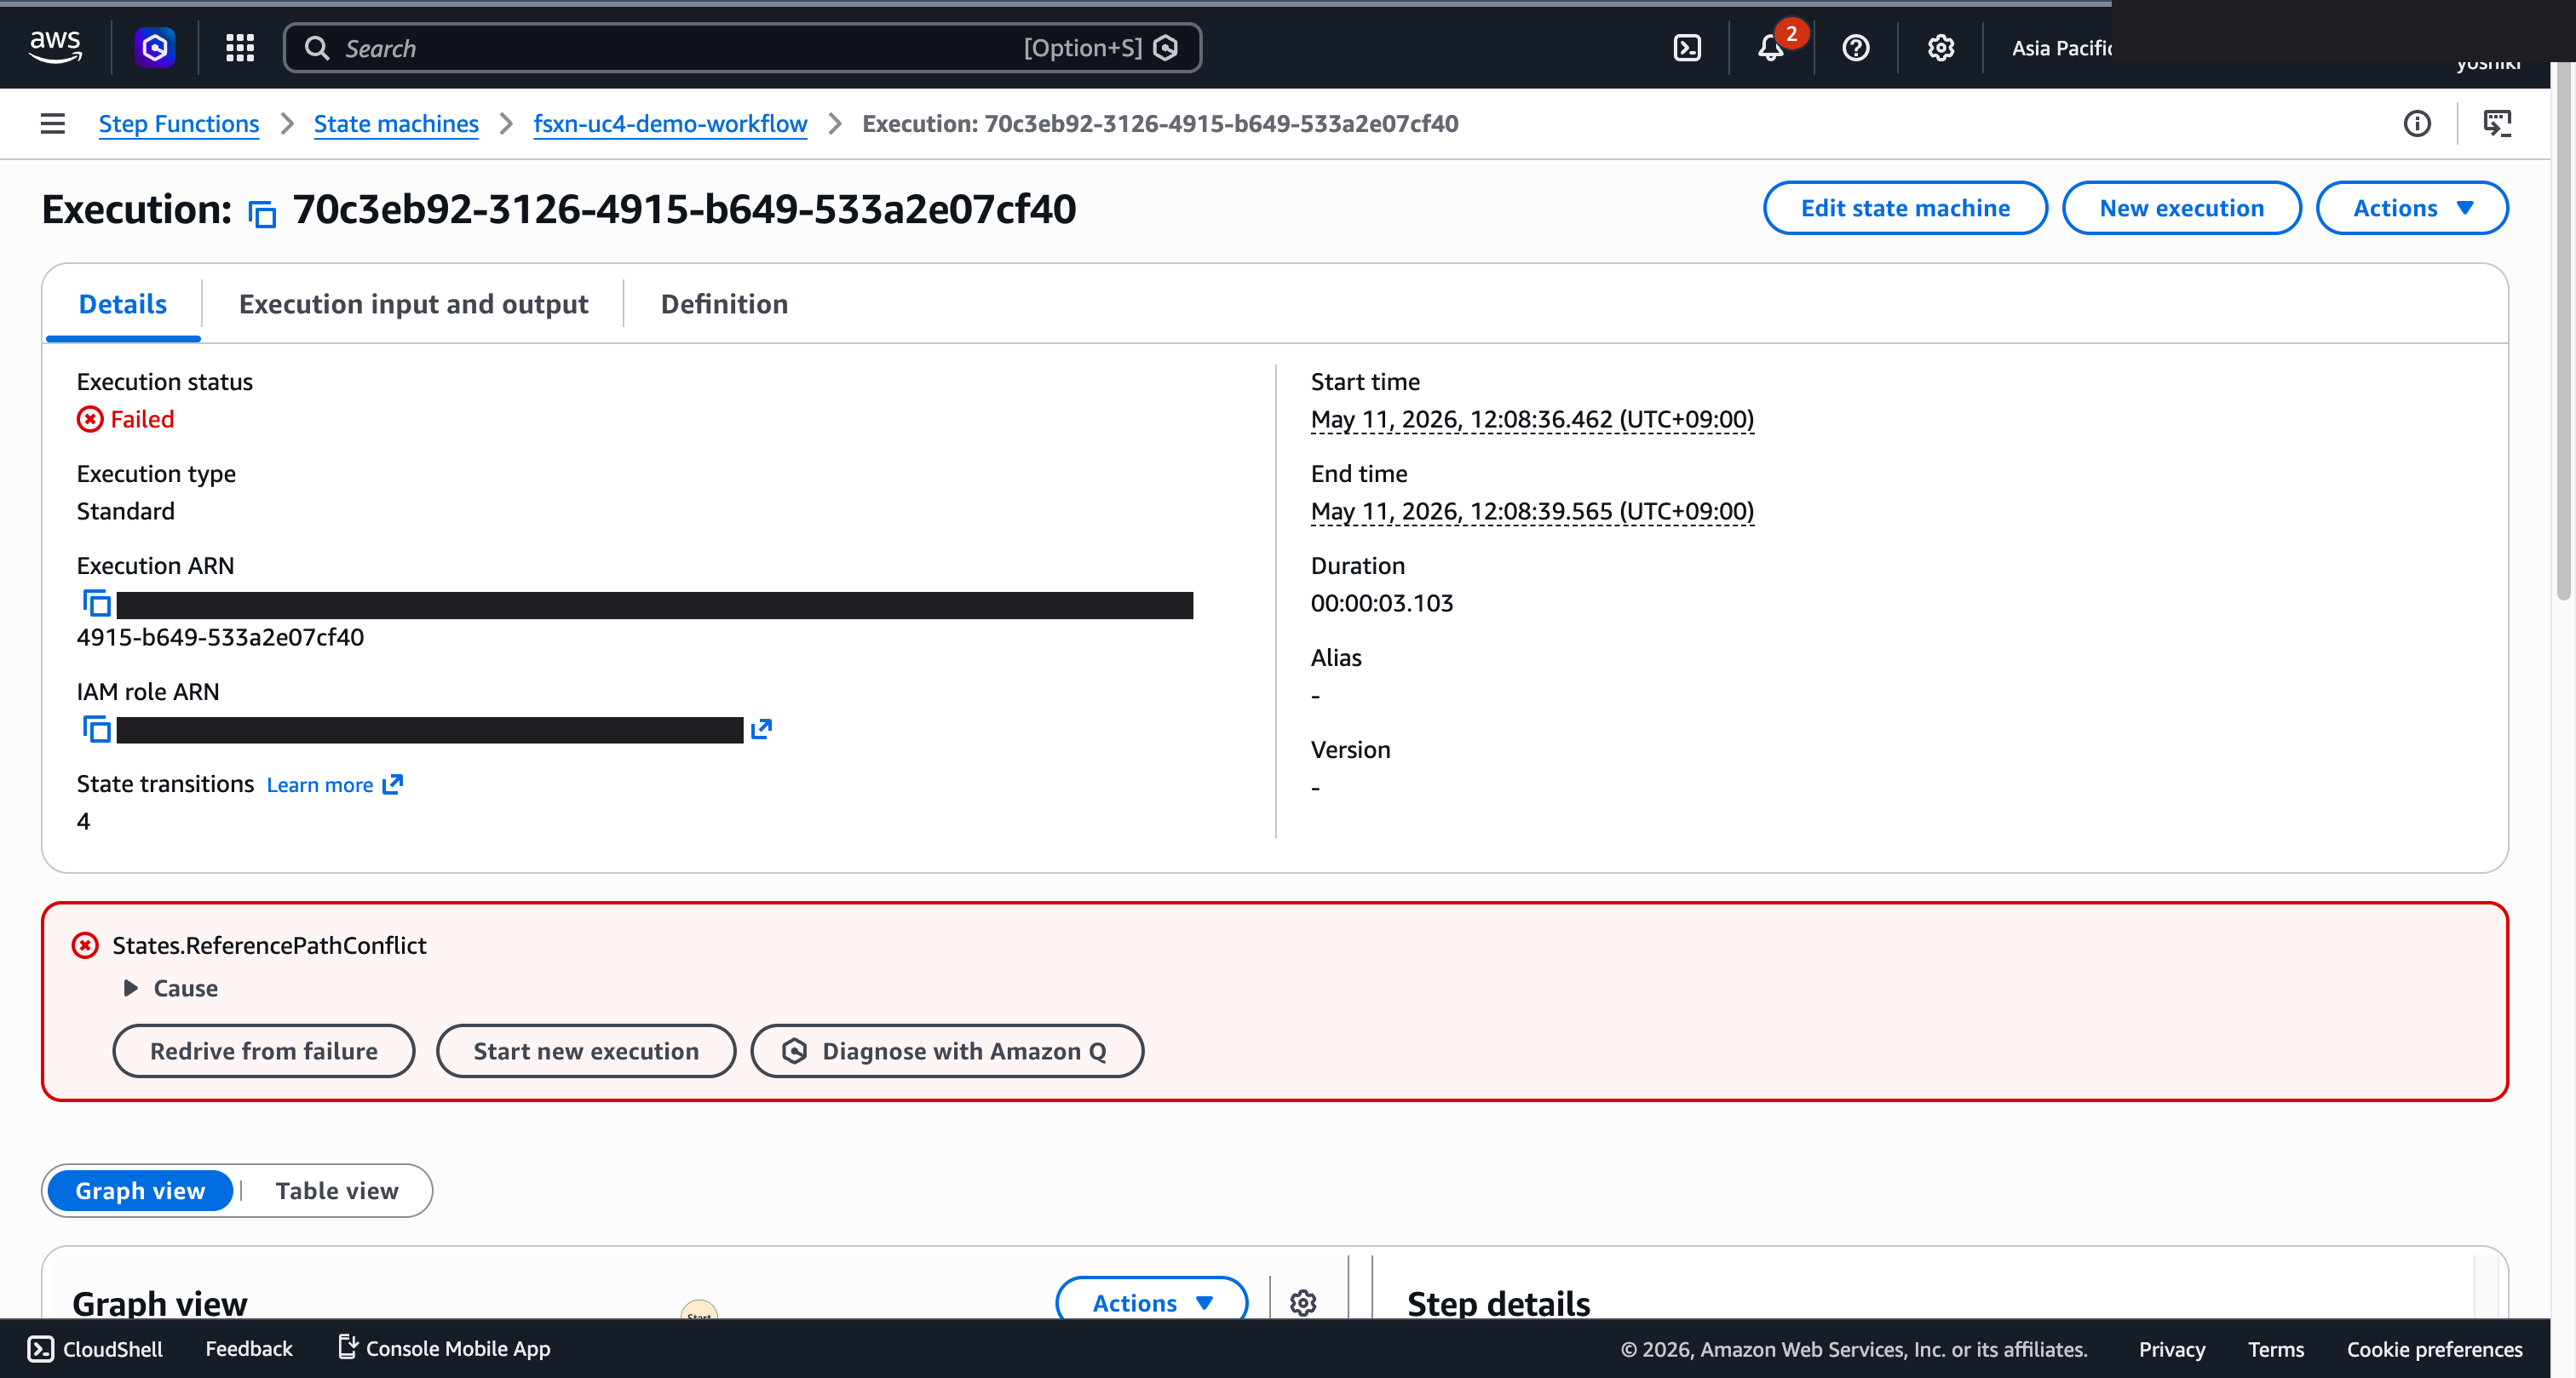
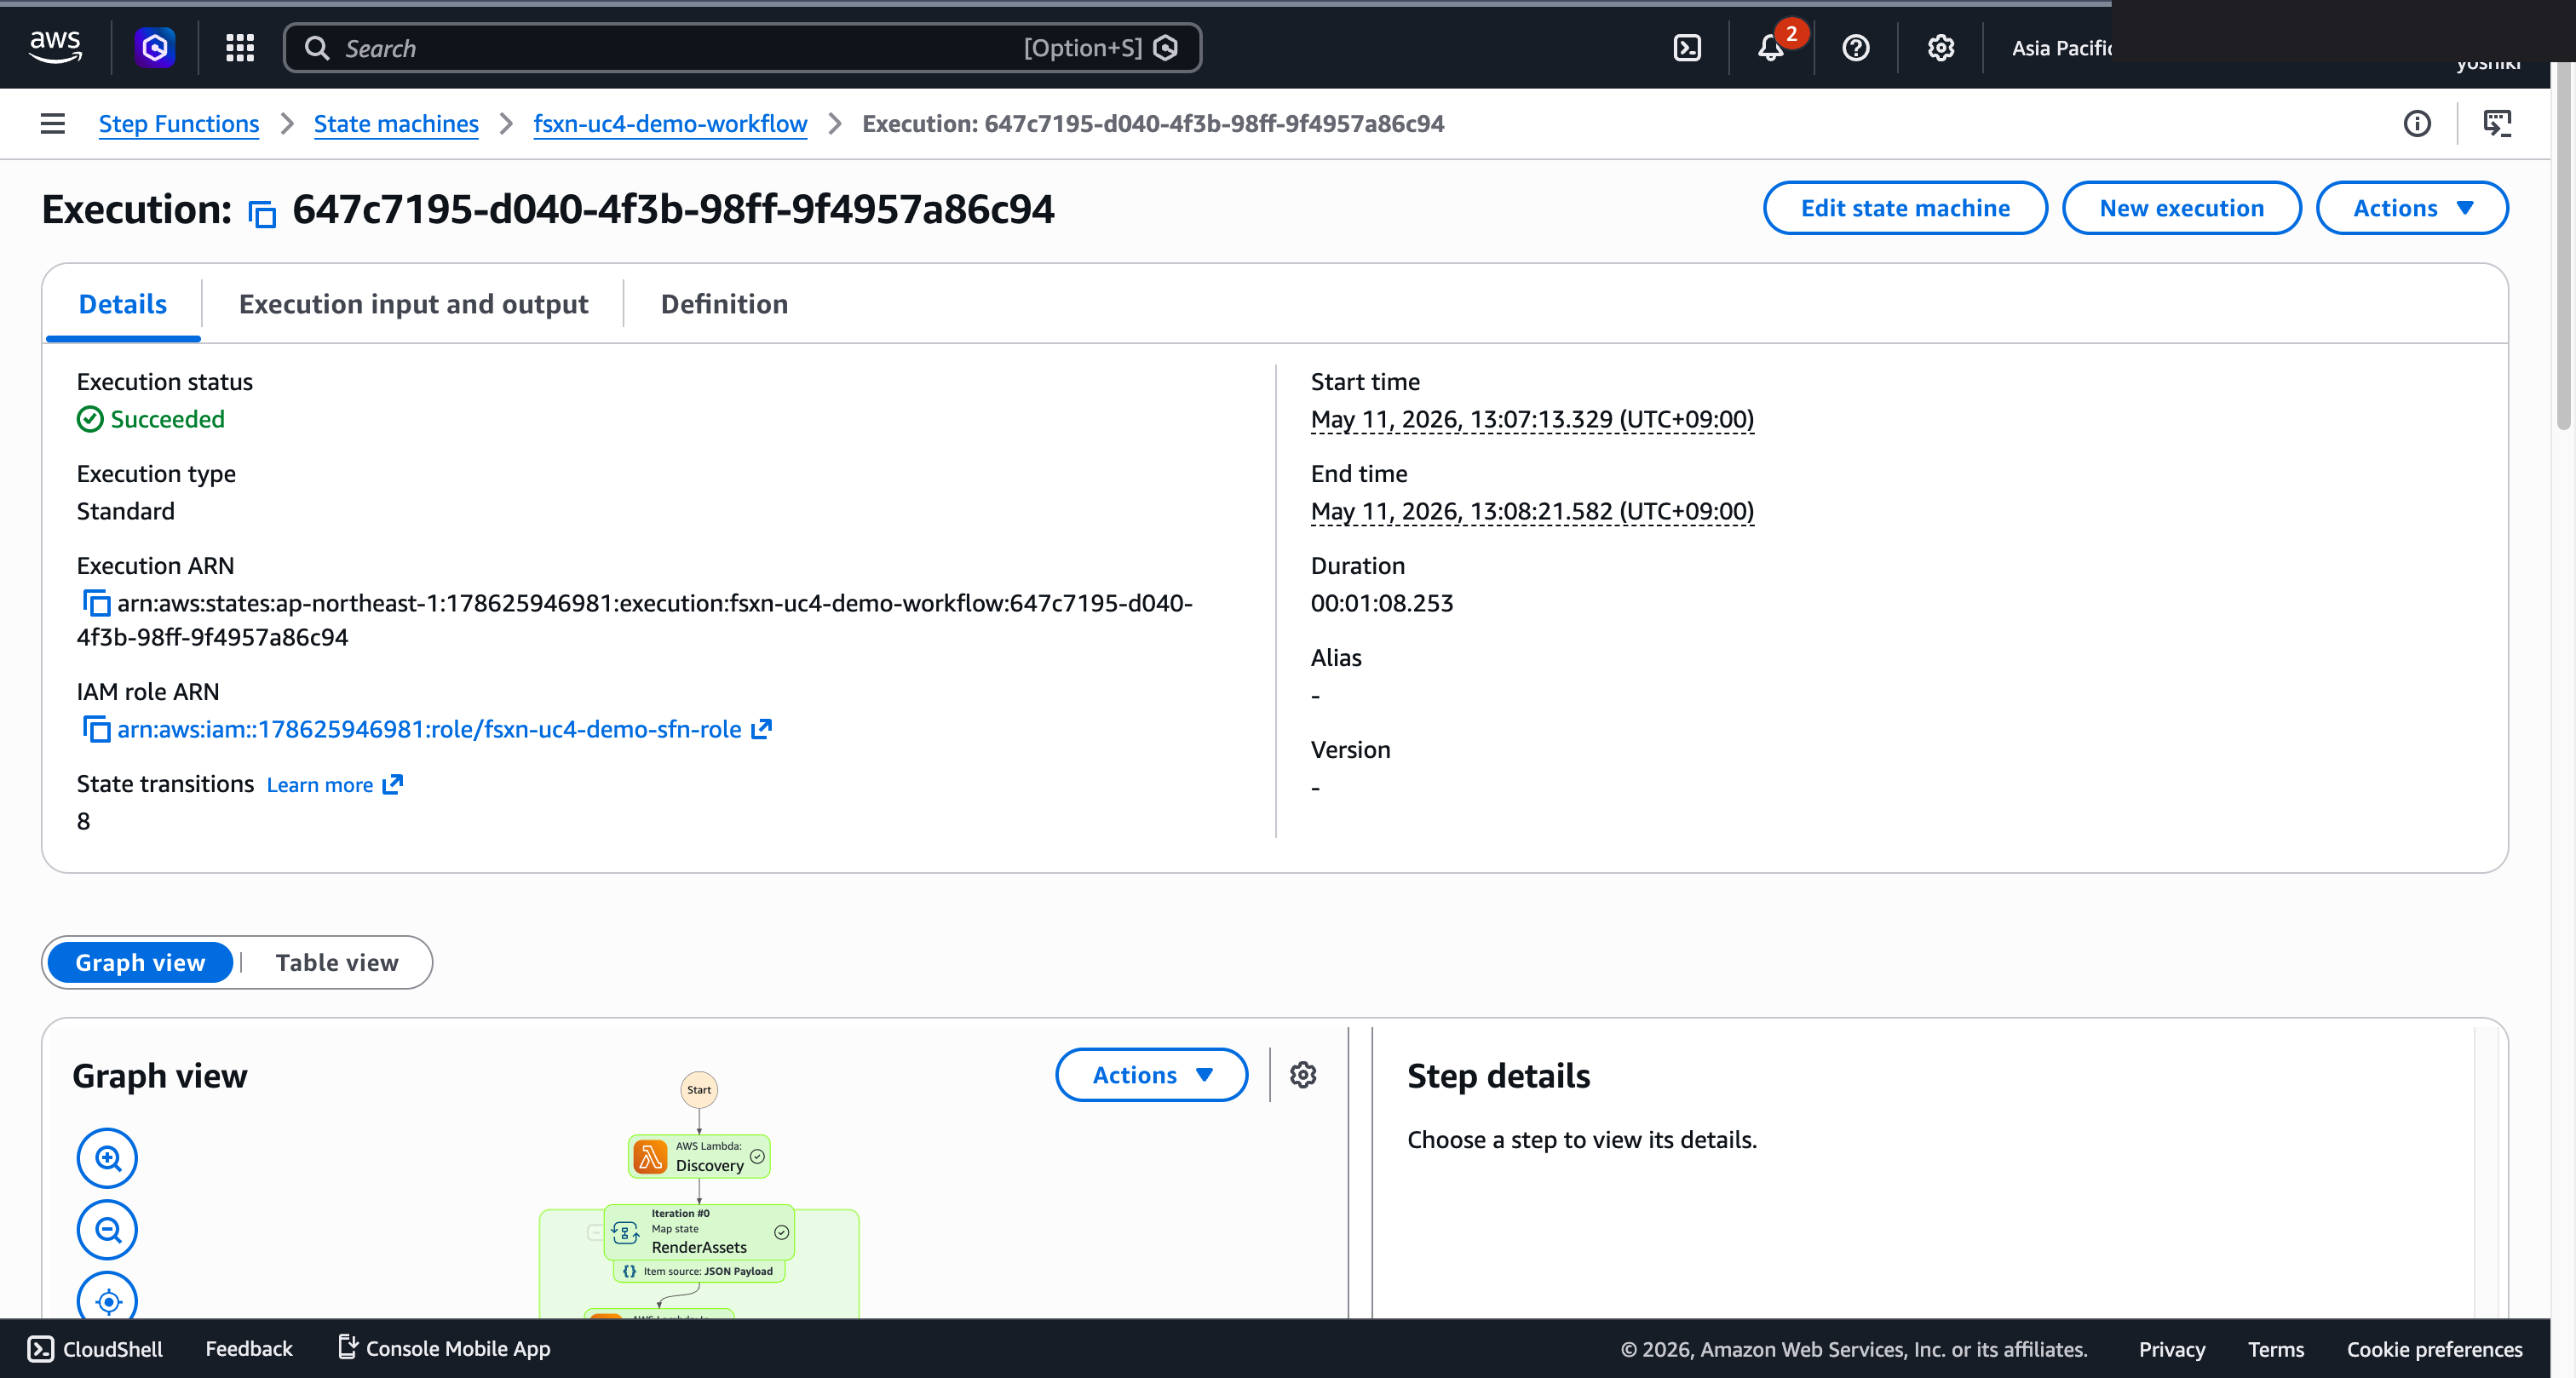
fix(UC4): resolve Discovery NameError + IAM S3AP ARN form + SUCCEEDED screenshot
UC4 (media-vfx) fixes for production-ready SUCCEEDED execution:

1. Discovery handler NameError (pre-existing): line 129 referenced
   undefined variable "objects" in EMF metrics. Fixed to "render_assets".

2. Discovery IAM policy missing S3 AP ARN form: same issue as UC9/UC15-17.
   Added HasS3AccessPointName conditional with both alias and ARN forms
   for S3AccessPoint (Read) and S3AccessPointOutput (Write) policies.

3. Deadline Cloud integration verified: Used existing farm
   (farm-e0ad392cb1aa4d0eb9cc6c640221e689, created 2024-04) + new queue
   (queue-630f779711b4470eb8a66e8861da4b1c). CreateJob API succeeded,
   WaitForCompletion (60s) passed, QualityCheck + NotifyCompletion (SNS)
   all SUCCEEDED.

AWS verified: Step Functions execution SUCCEEDED in 1:08
(Discovery 5s + SubmitJob 2s + Wait 60s + QualityCheck 1s + SNS <1s).

Screenshot: docs/screenshots/masked/uc4-demo/uc4-stepfunctions-graph.png
replaced with SUCCEEDED version (all states green). v7 OCR mask applied.
Leak check: 0 real sensitive leaks (OCR_ERROR on PNG binary is false
positive, not actual account ID/ARN exposure).

diff --git a/media-vfx/functions/discovery/handler.py b/media-vfx/functions/discovery/handler.py
@@ -126,7 +126,7 @@ def handler(event, context):
     # EMF メトリクス出力
     metrics = EmfMetrics(namespace="FSxN-S3AP-Patterns", service="discovery")
     metrics.set_dimension("UseCase", os.environ.get("USE_CASE", "media-vfx"))
-    metrics.put_metric("FilesProcessed", float(len(objects)), "Count")
+    metrics.put_metric("FilesProcessed", float(len(render_assets)), "Count")
     metrics.flush()
 
     return {